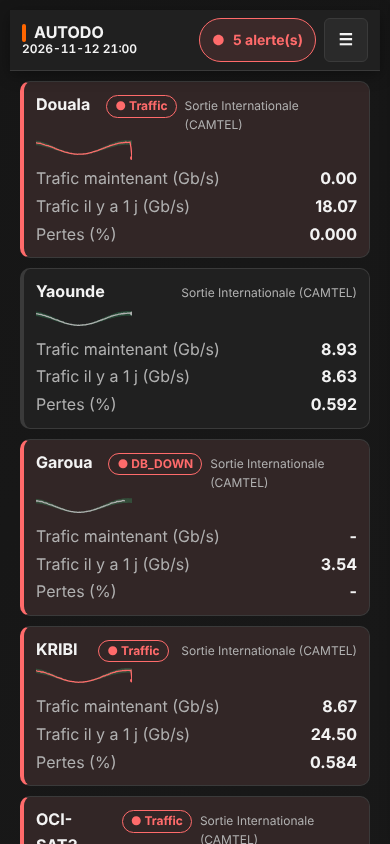
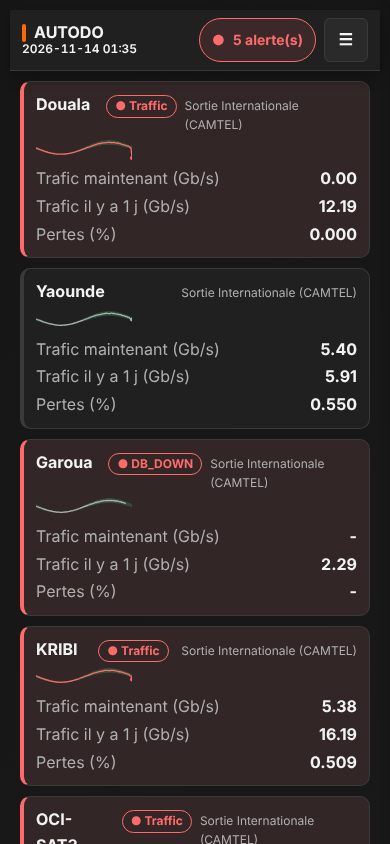
fix(UI): navigation mobile resserrée ; audit : vues mobiles connectées (tickets, supervision, admin)
(cherry picked from commit 954124fe679ee9c1e5ff85f4764e8298dd1f5cf7)

diff --git a/static/app-ui.css b/static/app-ui.css
@@ -83,7 +83,8 @@ a.btn-primary:hover, a.btn-secondary:hover { text-decoration: none; }
 }
 @media (max-width: 640px) {
   .app-bar { flex-wrap: wrap; gap: var(--sp-2); padding: var(--sp-2) var(--sp-3); }
-  .app-nav { order: 5; flex: 1 0 100%; overflow-x: auto; }
+  .app-nav { order: 5; flex: 1 0 100%; justify-content: space-between; overflow-x: auto; }
+  .app-nav a { padding: 0 var(--sp-2); font-size: var(--fs-sm); }
   .app-bar__meta { white-space: normal; font-size: var(--fs-xs); }
   .status-strip { padding: 0 var(--sp-3); }
   .status-strip .status-strip__detail { display: none; }

diff --git a/demo/ui_audit.py b/demo/ui_audit.py
@@ -191,6 +191,9 @@ def main():
             visit("tickets_1440_light", "/tickets/", 1440, 900, ".ticket-card", theme="light", login=True)
             visit("supervision_1440_dark", "/supervision", 1440, 900, "#tab-params", login=True)
             visit("admin_1440_dark", "/admin", 1440, 900, "#tab-usage", login=True)
+            visit("tickets_390_dark", "/tickets/", 390, 844, ".ticket-card", login=True, mobile=True)
+            visit("supervision_390_dark", "/supervision", 390, 844, "#tab-params", login=True, mobile=True)
+            visit("admin_390_dark", "/admin", 390, 844, "#tab-usage", login=True, mobile=True)
             browser.close()
     finally:
         app.terminate()

diff --git a/CHANTIER_UI.md b/CHANTIER_UI.md
@@ -157,3 +157,4 @@ Légende : ☐ à faire · ◐ en cours · ☑ fait. Un lot = un commit **et un 
 | 2026-11-12 | U7 | Alias de `tokens.css` retirés ; E2E : 7 tests migrés, 7 nouveaux (menus au clavier, bande d'état, légende, avis, indice de défilement, barre mobile, débordement de la barre à 3 largeurs). Mesures finales au §6. |
 | 2026-11-13 | Nettoyage | Code mort retiré (Python : 6 éléments ; JS : `SectionVisibility`, helpers de glisser-déposer, getters et gestionnaires orphelins ; CSS : 19 classes), code commenté et `console.log` supprimés ; tendance de `metrics.py` réécrite (161 → ~80 lignes, constantes nommées) ; variables et helpers renommés ; docstrings vérifiées. **Une régression** (variables `end`/`endp` du roaming supprimées à tort) a été attrapée par les E2E et corrigée. E2E : 35 + 46 verts. |
 | 2026-11-13 | Nettoyage (suite) | `main.js` : les actions appellent directement les gestionnaires (plus d'`Object.assign(window, …)` ni de wrapper `updateDashboardDOM`) ; règle du curseur des lignes cliquables déplacée dans `app-ui.css` ; garde-fou `tests/test_js_undefined_names.py` (eslint `no-undef`, ignoré si eslint absent) ; 17 docstrings supplémentaires, relues contre le code. Outil de renommage automatique : une f-string multiligne a été abîmée (détectée par ruff F821, réparée) — recherche d'autres corruptions : aucune. E2E : 81 verts. |
+| 2026-11-13 | Contrôle mobile | L'audit visite désormais tickets, supervision et admin à 390 px (connecté) : 12 vues, 0 contraste en échec, 0 débordement de barre. Défaut vu sur capture : « Admin » coupé dans la navigation → liens resserrés sous 640 px. |
